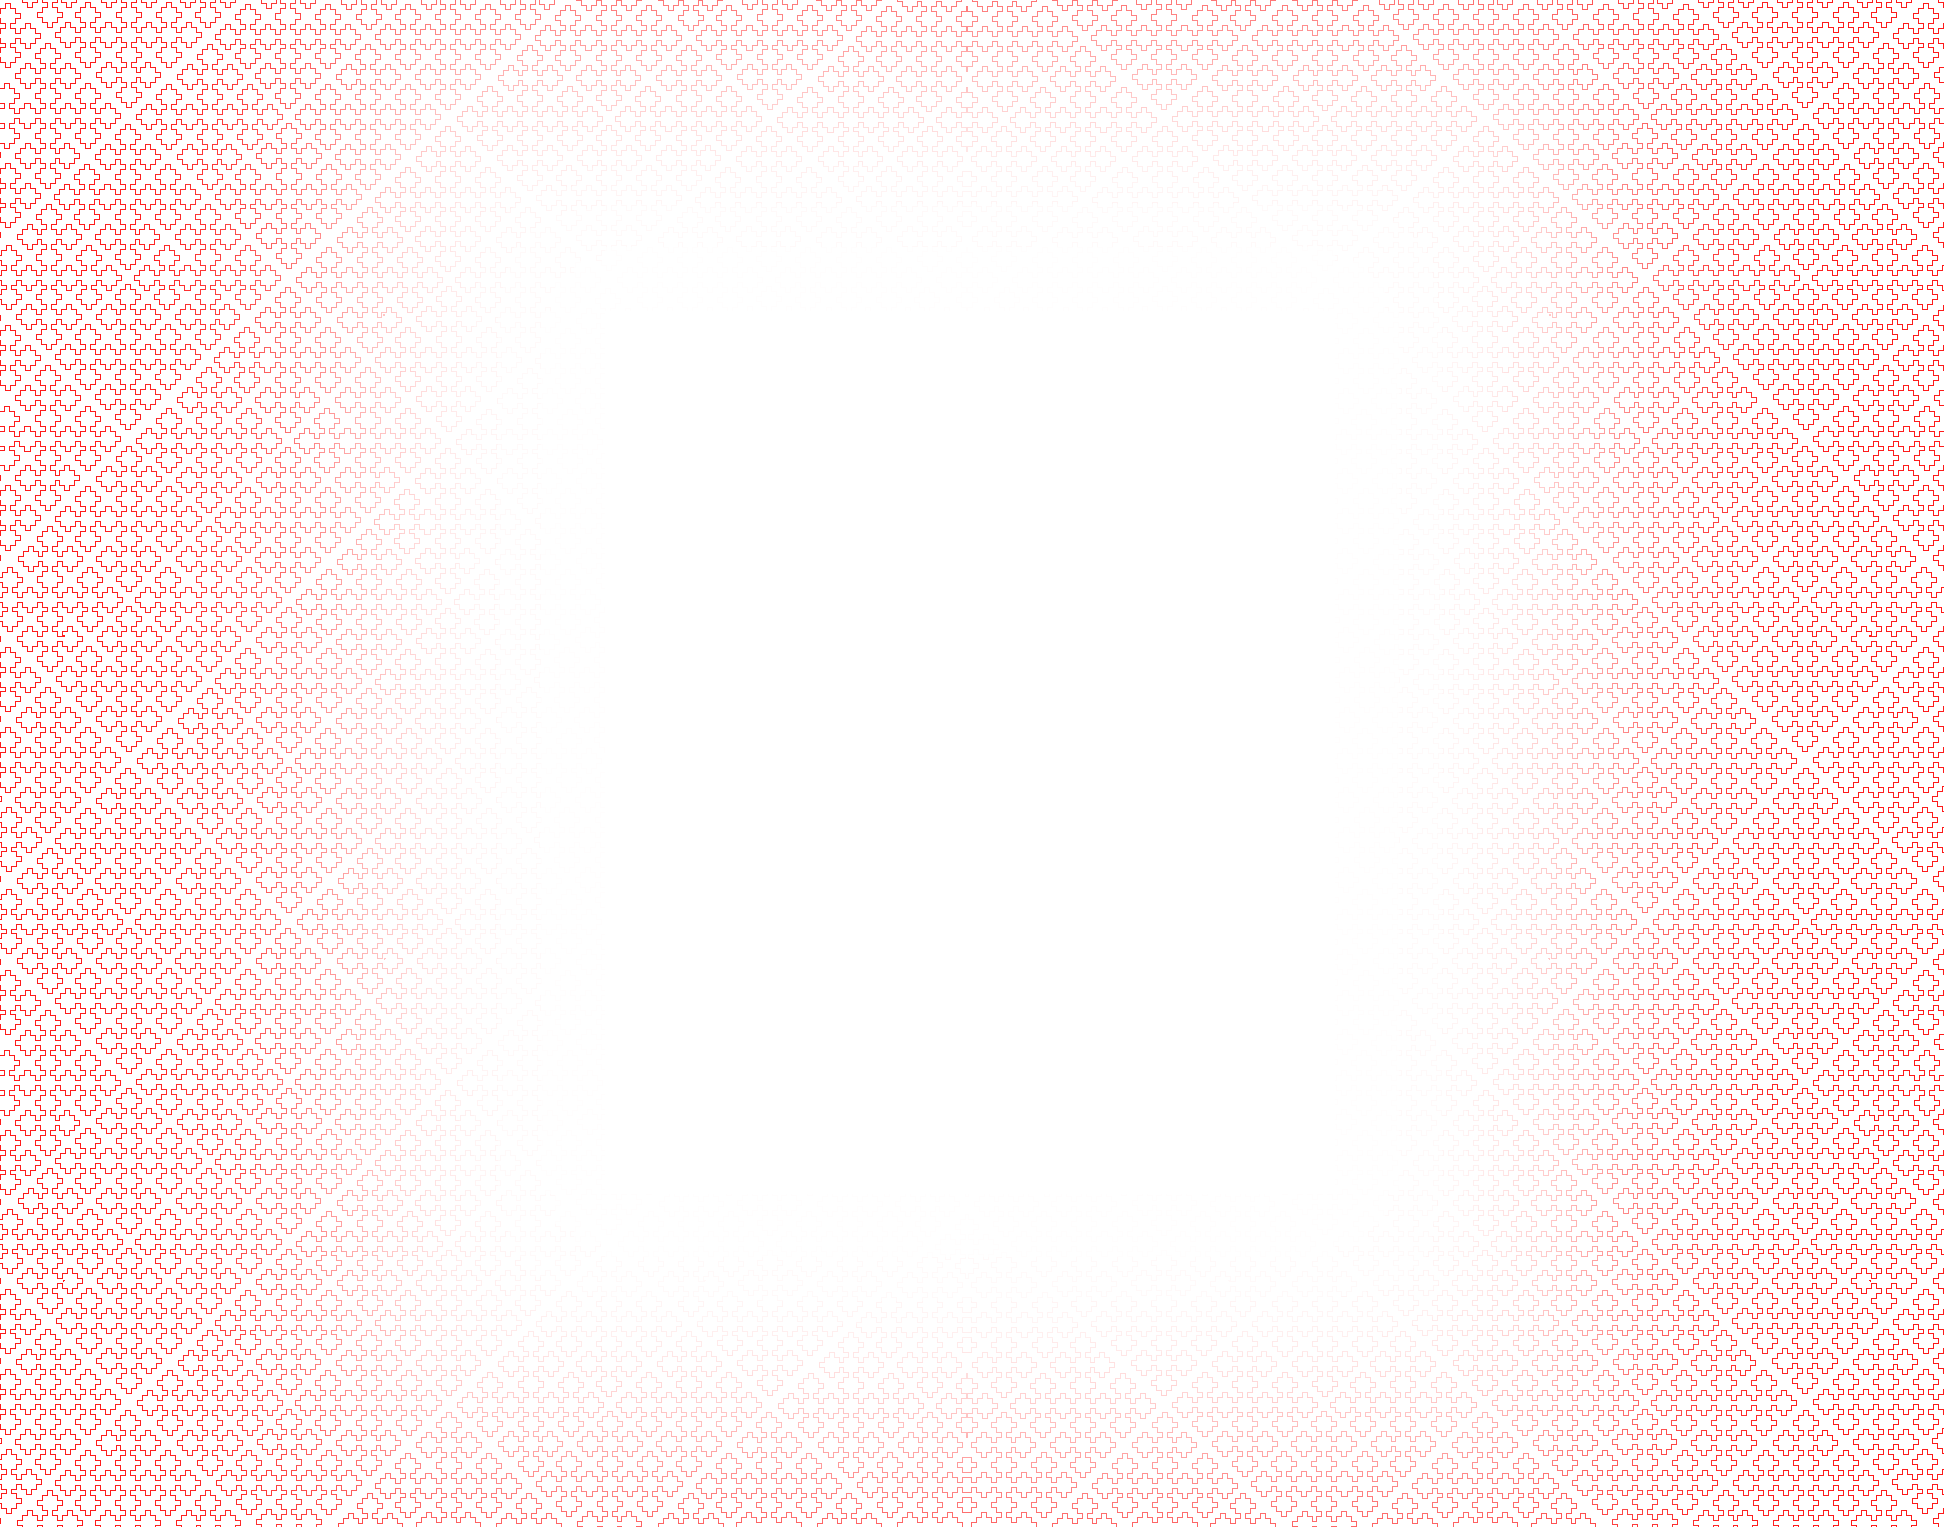
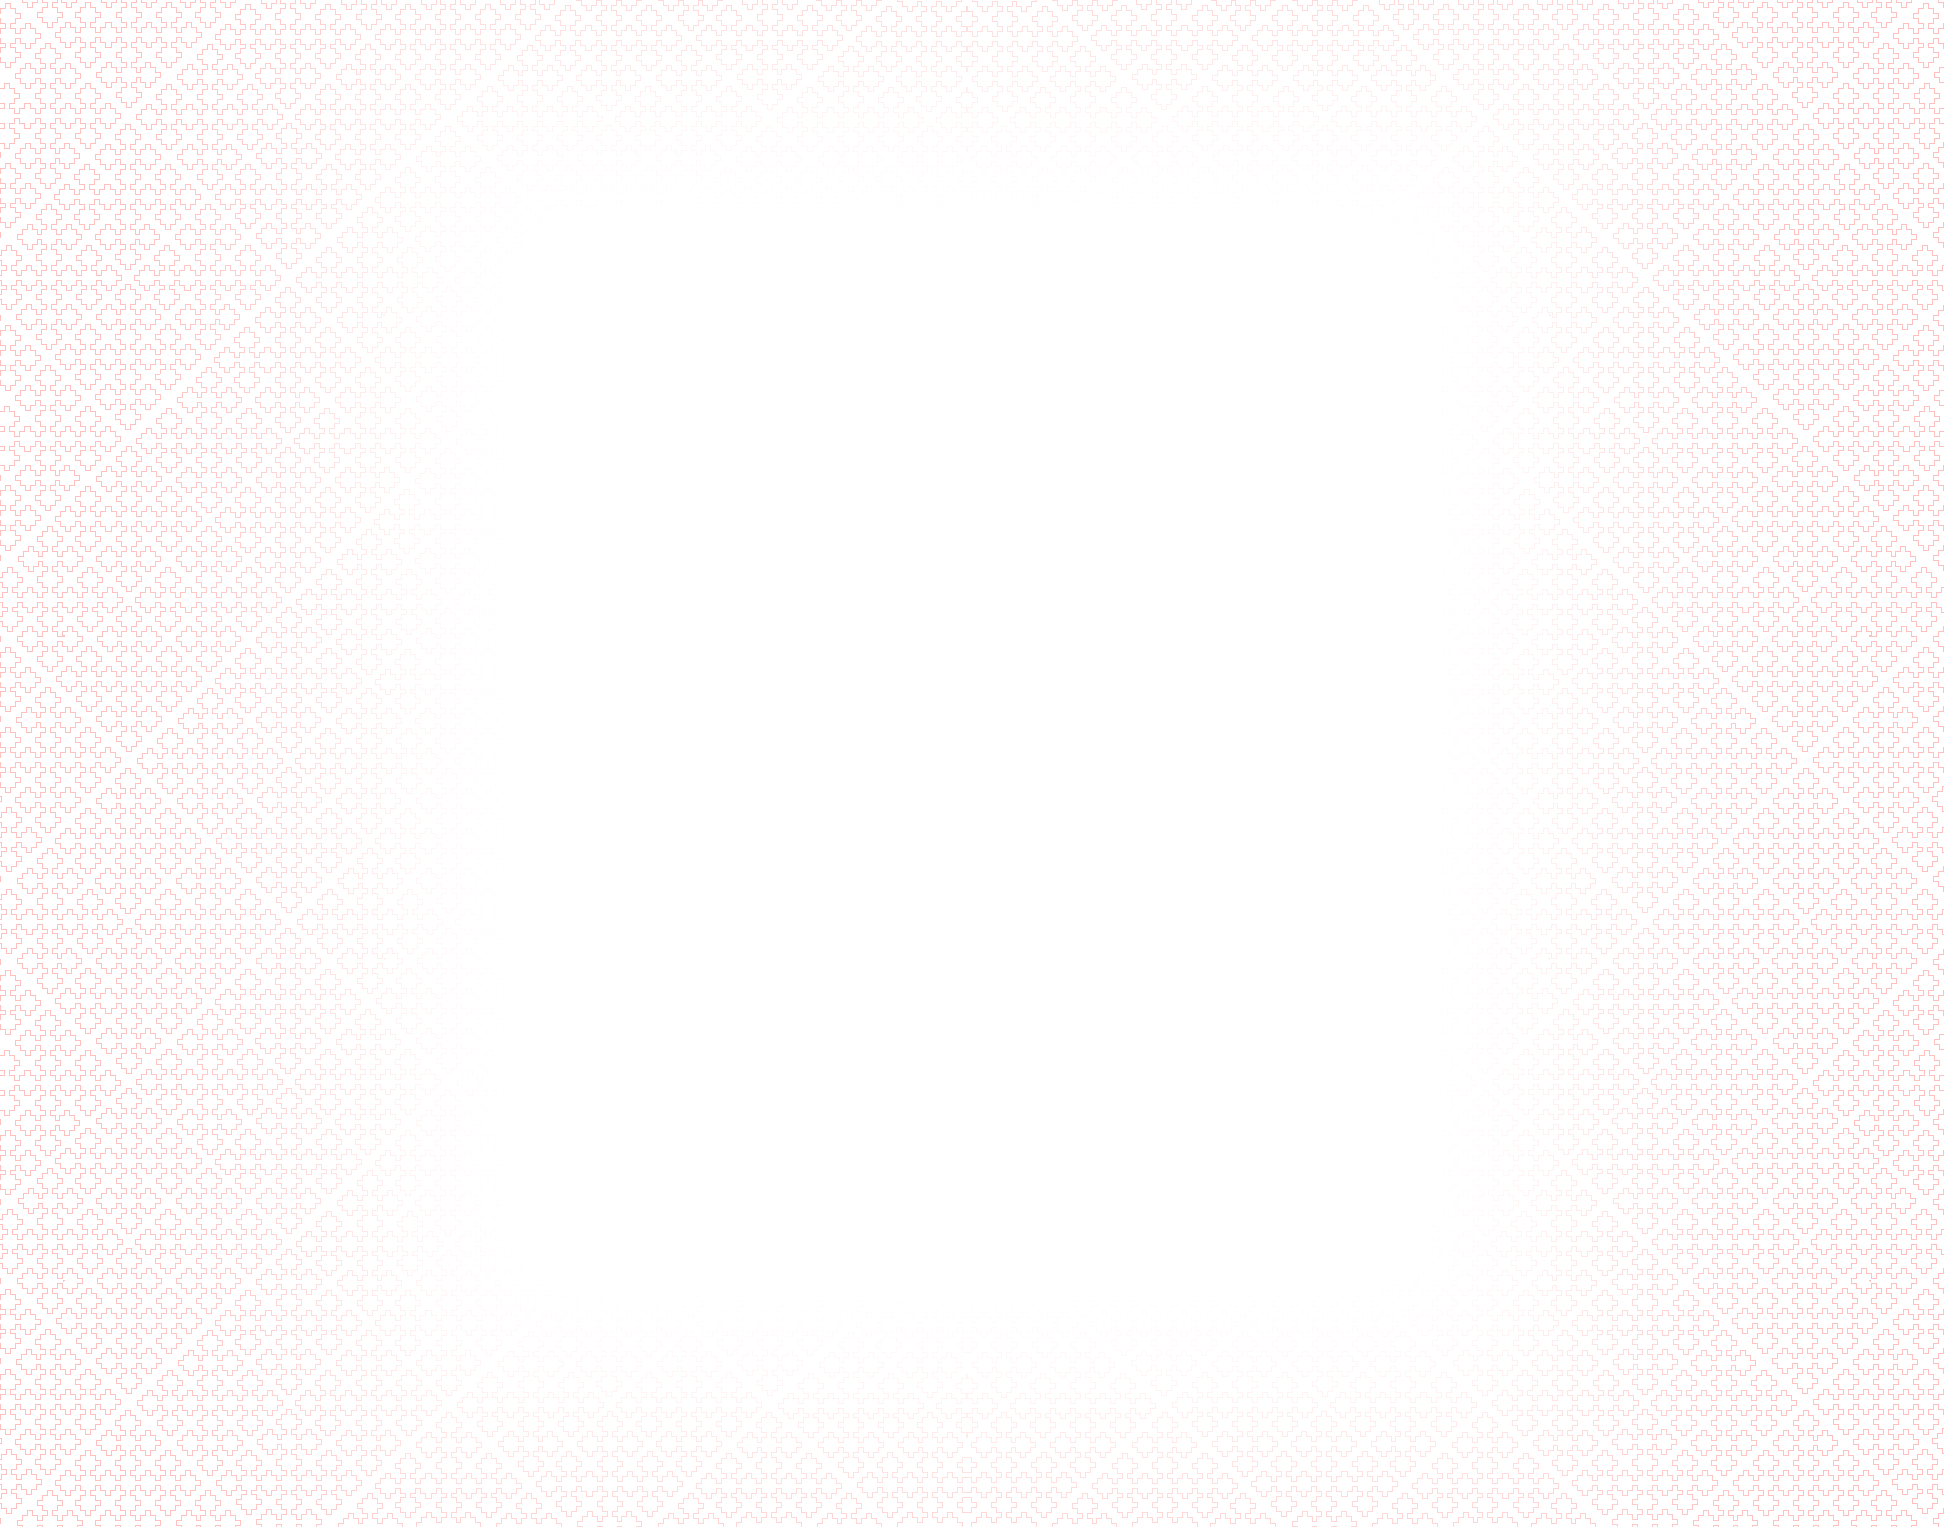
Fixed background image

Changed region(s): [[0.0, 0.0, 1.0, 1.0]]

diff --git a/src/App.js b/src/App.js
@@ -60,7 +60,7 @@ class App extends Component {
       <MuiThemeProvider theme={theme}>
         <Reboot />
         <Navigation />
-          <main style={{ backgroundImage: `url(${bg})` }}>
+          <main className="bg" style={{ backgroundImage: `url(${bg})` }}>
             <Routes />
           </main>
       </MuiThemeProvider>

diff --git a/src/App.css b/src/App.css
@@ -12,3 +12,8 @@ html {
 .dv-star-rating-star {
   font-size: 25px;
 }
+
+.bg {
+  background-size: 100%;
+  padding: 10px;
+}
